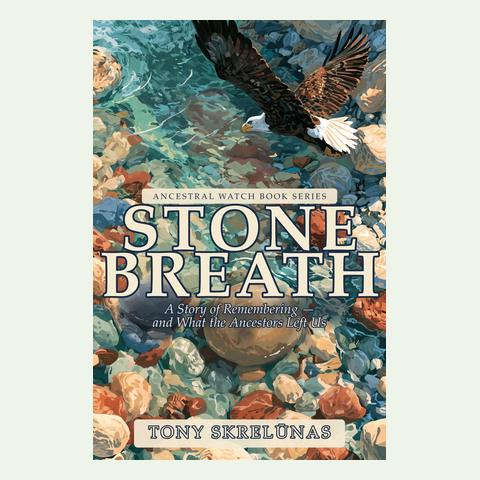
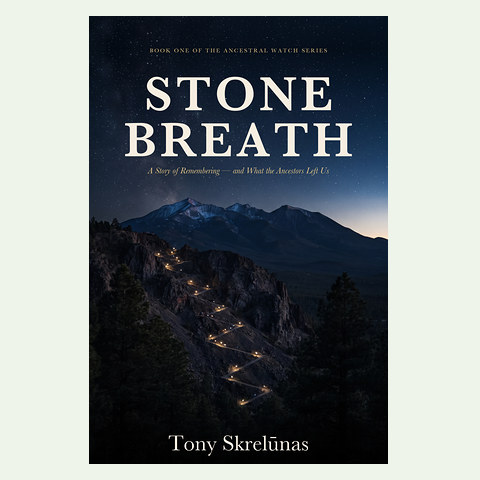
Stone Breath: Born on the Solstice (the article): the picture of the book by the fire now carries the new cover on the book, same scene and size, and the small square for the journal list shows the new cover; fresh addresses (?v=1121) so the old ones do not linger (Tony 11/21: 'And tribe awaken')

diff --git a/journal/index.html b/journal/index.html
@@ -145,7 +145,7 @@
       <li><a href="/journal/seeds-of-the-ancestors/"><span class="n" aria-hidden="true">04</span><img class="th" src="/assets/img/journal-1106/seeds-of-the-ancestors-480x480.jpg" alt="" loading="lazy" decoding="async" width="480" height="480"><span class="t"><b>Seeds of the Ancestors</b><span>The future we keep trying to engineer is already sitting in a jar of seed corn.</span><span class="st">What Gets Carried</span></span></a></li>
       <li><a href="/journal/the-warriors-path/"><span class="n" aria-hidden="true">05</span><img class="th" src="/assets/img/journal-1106/the-warriors-path-480x480.jpg" alt="" loading="lazy" decoding="async" width="480" height="480"><span class="t"><b>The Warrior&rsquo;s Path</b><span>Out of grad school with an MBA and a plan to change a nation, and what the road actually taught me.</span><span class="st">The Long Ride</span></span></a></li>
       <li><a href="/journal/twenty-five-years-to-the-podium-prescott-commencement/"><span class="n" aria-hidden="true">06</span><img class="th" src="/assets/img/journal-1106/twenty-five-years-to-the-podium-prescott-commencement-480x480.jpg" alt="" loading="lazy" decoding="async" width="480" height="480"><span class="t"><b>Twenty-Five Years to That Podium</b><span>Kerosene lamp to commencement podium, and what I found when I finally got there.</span><span class="st">The Doctorate</span></span></a></li>
-      <li><a href="/journal/stone-breath-born-on-the-solstice/"><span class="n" aria-hidden="true">07</span><img class="th" src="/assets/img/journal-1106/stone-breath-born-on-the-solstice-480x480.jpg" alt="" loading="lazy" decoding="async" width="480" height="480"><span class="t"><b>Stone Breath: Born on the Solstice, On Purpose</b><span>A man carries his grandfather&rsquo;s book of old melodies home and finds the old ways were only waiting.</span><span class="st">The Novels</span></span></a></li>
+      <li><a href="/journal/stone-breath-born-on-the-solstice/"><span class="n" aria-hidden="true">07</span><img class="th" src="/assets/img/journal-1106/stone-breath-born-on-the-solstice-480x480.jpg?v=1121" alt="" loading="lazy" decoding="async" width="480" height="480"><span class="t"><b>Stone Breath: Born on the Solstice, On Purpose</b><span>A man carries his grandfather&rsquo;s book of old melodies home and finds the old ways were only waiting.</span><span class="st">The Novels</span></span></a></li>
     </ol>
   </div>
 </section>
@@ -297,7 +297,7 @@
       </div></div>
       <figure class="grp__covers"><a href="https://ancestralwatch.com/series/stone-breath/"><img src="/assets/img/stone-breath-cover.jpg?v=1121" alt="Stone Breath, the cover" loading="lazy" decoding="async" width="900" height="1350"></a><a href="https://ancestralwatch.com/series/the-council-fire/"><img src="/assets/img/the-council-fire-arrives-with-a-family-on-its-cover.jpg" alt="The Council Fire, the cover" loading="lazy" decoding="async" width="1067" height="1600"></a><figcaption>The two that are out. Both at <a href="https://ancestralwatch.com">ancestralwatch.com</a>.</figcaption></figure>
       <ul class="jlist">
-        <li><a href="/journal/stone-breath-born-on-the-solstice/"><img class="th" src="/assets/img/journal-1106/stone-breath-born-on-the-solstice-480x480.jpg" alt="" loading="lazy" decoding="async" width="480" height="480"><span class="t"><em class="dt"><time datetime="2026-08-07">August&nbsp;7,&nbsp;2026</time></em><b>Stone Breath: Born on the Solstice, On Purpose</b></span></a></li>
+        <li><a href="/journal/stone-breath-born-on-the-solstice/"><img class="th" src="/assets/img/journal-1106/stone-breath-born-on-the-solstice-480x480.jpg?v=1121" alt="" loading="lazy" decoding="async" width="480" height="480"><span class="t"><em class="dt"><time datetime="2026-08-07">August&nbsp;7,&nbsp;2026</time></em><b>Stone Breath: Born on the Solstice, On Purpose</b></span></a></li>
         <li><a href="/journal/what-a-far-messenger-is/"><img class="th" src="/assets/img/journal-1106/what-a-far-messenger-is-480x480.jpg" alt="" loading="lazy" decoding="async" width="480" height="480"><span class="t"><em class="dt"><time datetime="2026-08-25">August&nbsp;25,&nbsp;2026</time></em><b>What a Far Messenger Is</b></span></a></li>
         <li><a href="/journal/stone-breath-has-gone-out-to-the-world/"><span class="th th--art" role="img" aria-label="Stylized cresting wave" style="--art:url(/assets/art/japan-wave.svg)"></span><span class="t"><em class="dt"><time datetime="2026-09-11">September&nbsp;11,&nbsp;2026</time></em><b>Stone Breath Has Gone Out to the World</b></span></a></li>
         <li><a href="/journal/the-council-fire-arrives-with-a-family-on-its-cover/"><img class="th" src="/assets/img/journal-1106/the-council-fire-arrives-with-a-family-on-its-cover-480x480.jpg" alt="" loading="lazy" decoding="async" width="480" height="480"><span class="t"><em class="dt"><time datetime="2026-10-19">October&nbsp;19,&nbsp;2026</time></em><b>The Council Fire Arrives With a Family on Its Cover</b></span></a></li>

diff --git a/journal/stone-breath-born-on-the-solstice/index.html b/journal/stone-breath-born-on-the-solstice/index.html
@@ -62,7 +62,7 @@
 <meta property="og:title" content="Stone Breath: Born on the Solstice, On Purpose — TribeAwaken">
 <meta property="og:description" content="A novel about the songs we carry across oceans — and the roots that a lifetime of forgetting could never take. Released on the solstice, on purpose.">
 <meta property="og:url" content="https://tribeawaken.com/journal/stone-breath-born-on-the-solstice/">
-<meta property="og:image" content="https://tribeawaken.com/assets/img/journal/stone-breath-born-on-the-solstice/0.jpeg">
+<meta property="og:image" content="https://tribeawaken.com/assets/img/journal/stone-breath-born-on-the-solstice/0.jpeg?v=1121">
 <meta name="twitter:card" content="summary_large_image">
 <style>
 .upd{border:1px solid var(--clay);border-left-width:3px;border-radius:2px;
@@ -114,7 +114,7 @@
 <!-- ===== /SITE MENU ===== -->
 
 
-<main id="main"><article class="art"><div class="wrap"><p class="eyebrow" style="color:var(--turq)">The Books</p><h1 style="font-family:var(--font-display);font-size:var(--step-4);line-height:1.08;">Stone Breath: Born on the Solstice, On Purpose</h1><p class="lead">A novel about the songs we carry across oceans — and the roots that a lifetime of forgetting could never take. Released on the solstice, on purpose.</p><figure class="article__hero" style="margin:0 0 var(--space-4);border-radius:var(--radius-lg);overflow:hidden;"><img src="/assets/img/journal/stone-breath-born-on-the-solstice/0.jpeg" alt="" loading="eager" style="width:100%;height:auto;display:block;"></figure><p class="artdate"><time datetime="2026-08-07">August&nbsp;7,&nbsp;2026</time></p>
+<main id="main"><article class="art"><div class="wrap"><p class="eyebrow" style="color:var(--turq)">The Books</p><h1 style="font-family:var(--font-display);font-size:var(--step-4);line-height:1.08;">Stone Breath: Born on the Solstice, On Purpose</h1><p class="lead">A novel about the songs we carry across oceans — and the roots that a lifetime of forgetting could never take. Released on the solstice, on purpose.</p><figure class="article__hero" style="margin:0 0 var(--space-4);border-radius:var(--radius-lg);overflow:hidden;"><img src="/assets/img/journal/stone-breath-born-on-the-solstice/0.jpeg?v=1121" alt="" loading="eager" style="width:100%;height:auto;display:block;"></figure><p class="artdate"><time datetime="2026-08-07">August&nbsp;7,&nbsp;2026</time></p>
 <div class="article__body"><div class="upd">
 <b>Update &middot; September 11, 2026</b>
 <p><em>Stone Breath</em> is now in <strong>worldwide distribution</strong> &mdash; Apple Books, Kobo, booksellers from Berlin to Sydney, and the catalogs public libraries draw from. One universal link routes you to whichever store is yours: <a href="https://books2read.com/u/4AEDdd" target="_blank" rel="noopener">books2read.com/u/4AEDdd</a></p>
